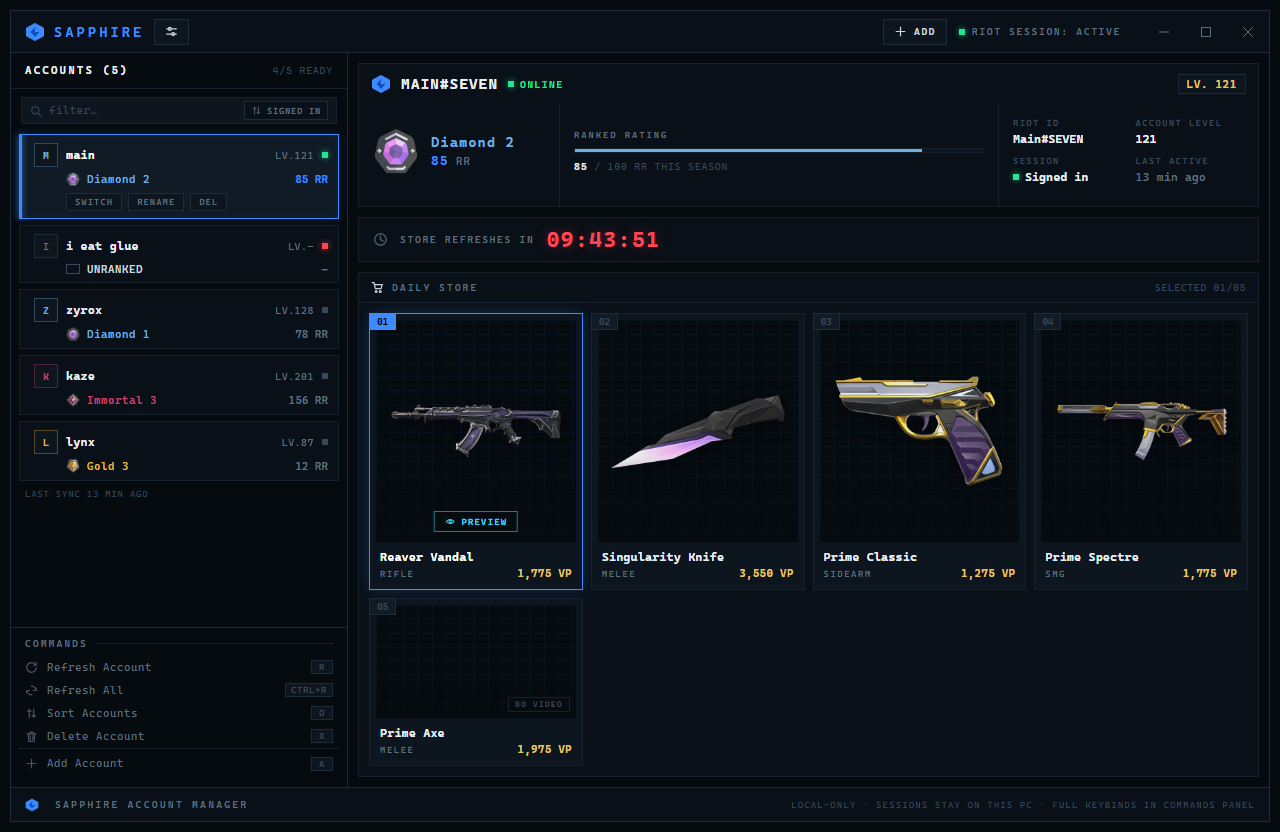
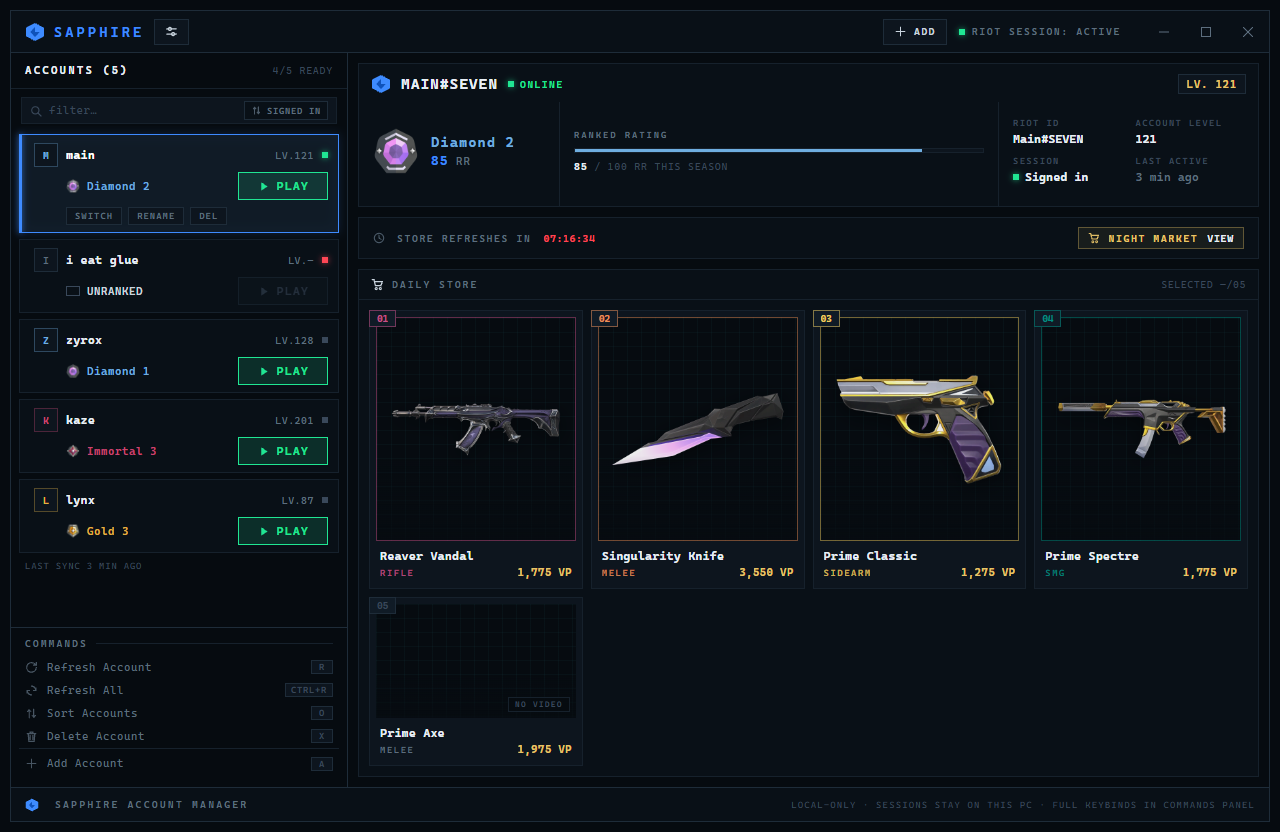
docs: catch the README and its screenshots up with 0.1.7
The README described an app that no longer exists in two places, and the screenshots were four days
older than the features they were meant to show.

The night market was the bigger gap: it shipped in 0.1.7 and was documented nowhere. It is now in the
feature list, in the usage steps, and in the screenshots — main.png shows its entry in the refresh
row, which is where a user finds it.

The rest was drift from the hover change. The usage steps and the keyboard table said the arrows
"move between offers" and `P` previews "the selected skin", which stopped being true when the cards
stopped being clickable and selection became a pointer. They now say what the app does: point at an
offer, and nothing is pointed at until you do. main.png still showed the old behaviour in full — a
blue selection border, a white number badge, and `SELECTED 01/05` on a freshly opened app.

The screenshots also stopped being reproducible, which is why they drifted. make-preview.mjs mocked
getAppVersion as a literal '0.1.4' and the update fixture as '0.1.5', so a regenerated settings.png
would have printed a version two releases old. Both now come from package.json, and the offered
version is derived as one patch ahead — an update older than the app is not a state that can happen.

diff --git a/README.md b/README.md
@@ -7,6 +7,8 @@ A Windows desktop app for viewing the daily Valorant store across saved Riot Cli
 ## Features
 
 - Daily store for every saved account: skin names, rendered art, VP prices, and a countdown to the rotation.
+- Every offer is framed in its skin's tier colour, so the tier reads at a glance without a label.
+- Night Market, when Riot is running one: that account's six discounted offers, sorted by tier and then by discount, each drawn in its own tier colour and marked once opened.
 - Skin previews — upgrade levels and colour variants — in a modal, with a volume slider that persists across skins and restarts.
 - Riot ID, account level, competitive rank, RR and placement progress, per account.
 - Save and switch Riot Client sessions, or import them from TCNO Account Switcher.
@@ -23,11 +25,12 @@ Download [`Sapphire Setup <version>.exe`](../../releases) and run it. The portab
    - **Save current account** saves the session that is already active.
    - **Add manually** closes Riot Client and Valorant, opens Riot's sign-in screen, and saves the account once you sign in. The current local session is backed up first.
    - Snapshots detected from TCNO Account Switcher can be imported as well (`I`).
-2. **Pick an account** with `↑`/`↓` (or `O` to change the sort order); the daily store for that account fills the panel on the right.
+2. **Pick an account** with `↑`/`↓` (or `O` to change the sort order); the daily store for that account fills the panel on the right. Point at an offer by hovering it or with `←`/`→`. Nothing is pointed at until you do — the header reads `SELECTED —/06` — and pointing at one names it there.
 3. **Refresh it** with `R`, or every account with `Ctrl+R`.
 4. **Open the market view** with `M` — the store on its own, larger. `H` collapses the offer previews.
-5. **Preview a skin** with `P` on an offer to play its in-game video.
-6. **Switch the Riot session to an account** with `S`: the saved session is restored and Riot Client opens.
+5. **Preview a skin** with `P`, which plays the in-game video of the offer you are pointing at. The cards are not buttons: the only thing to click inside one is its **PREVIEW** button.
+6. **Open the Night Market** when Riot is running one — a `NIGHT MARKET VIEW` entry appears in the `STORE REFRESHES IN` row, and lists that account's discounted offers. `Esc` goes back.
+7. **Switch the Riot session to an account** with `S`: the saved session is restored and Riot Client opens.
 
 Riot Client must be running and signed in before the app can read a session. Its install location does not matter: Sapphire reads where this PC put it, so another drive is fine.
 
@@ -38,12 +41,12 @@ The app is keyboard-first; the same list is in the **Commands** panel in the sid
 | Key | Action |
 | --- | --- |
 | `↑` / `↓` | Move between saved accounts |
-| `←` / `→` | Move between the daily store offers |
+| `←` / `→` | Point at a daily store offer |
 | `Enter` | Open the market view for the selected account |
 | `S` | Switch to the selected account |
 | `R` | Refresh the selected account |
 | `Ctrl+R` | Refresh all accounts |
-| `P` | Preview the selected skin's video |
+| `P` | Preview the video of the offer you are pointing at |
 | `H` | Show or hide skin previews |
 | `O` | Cycle the account sort order |
 | `M` | Toggle the market view |
